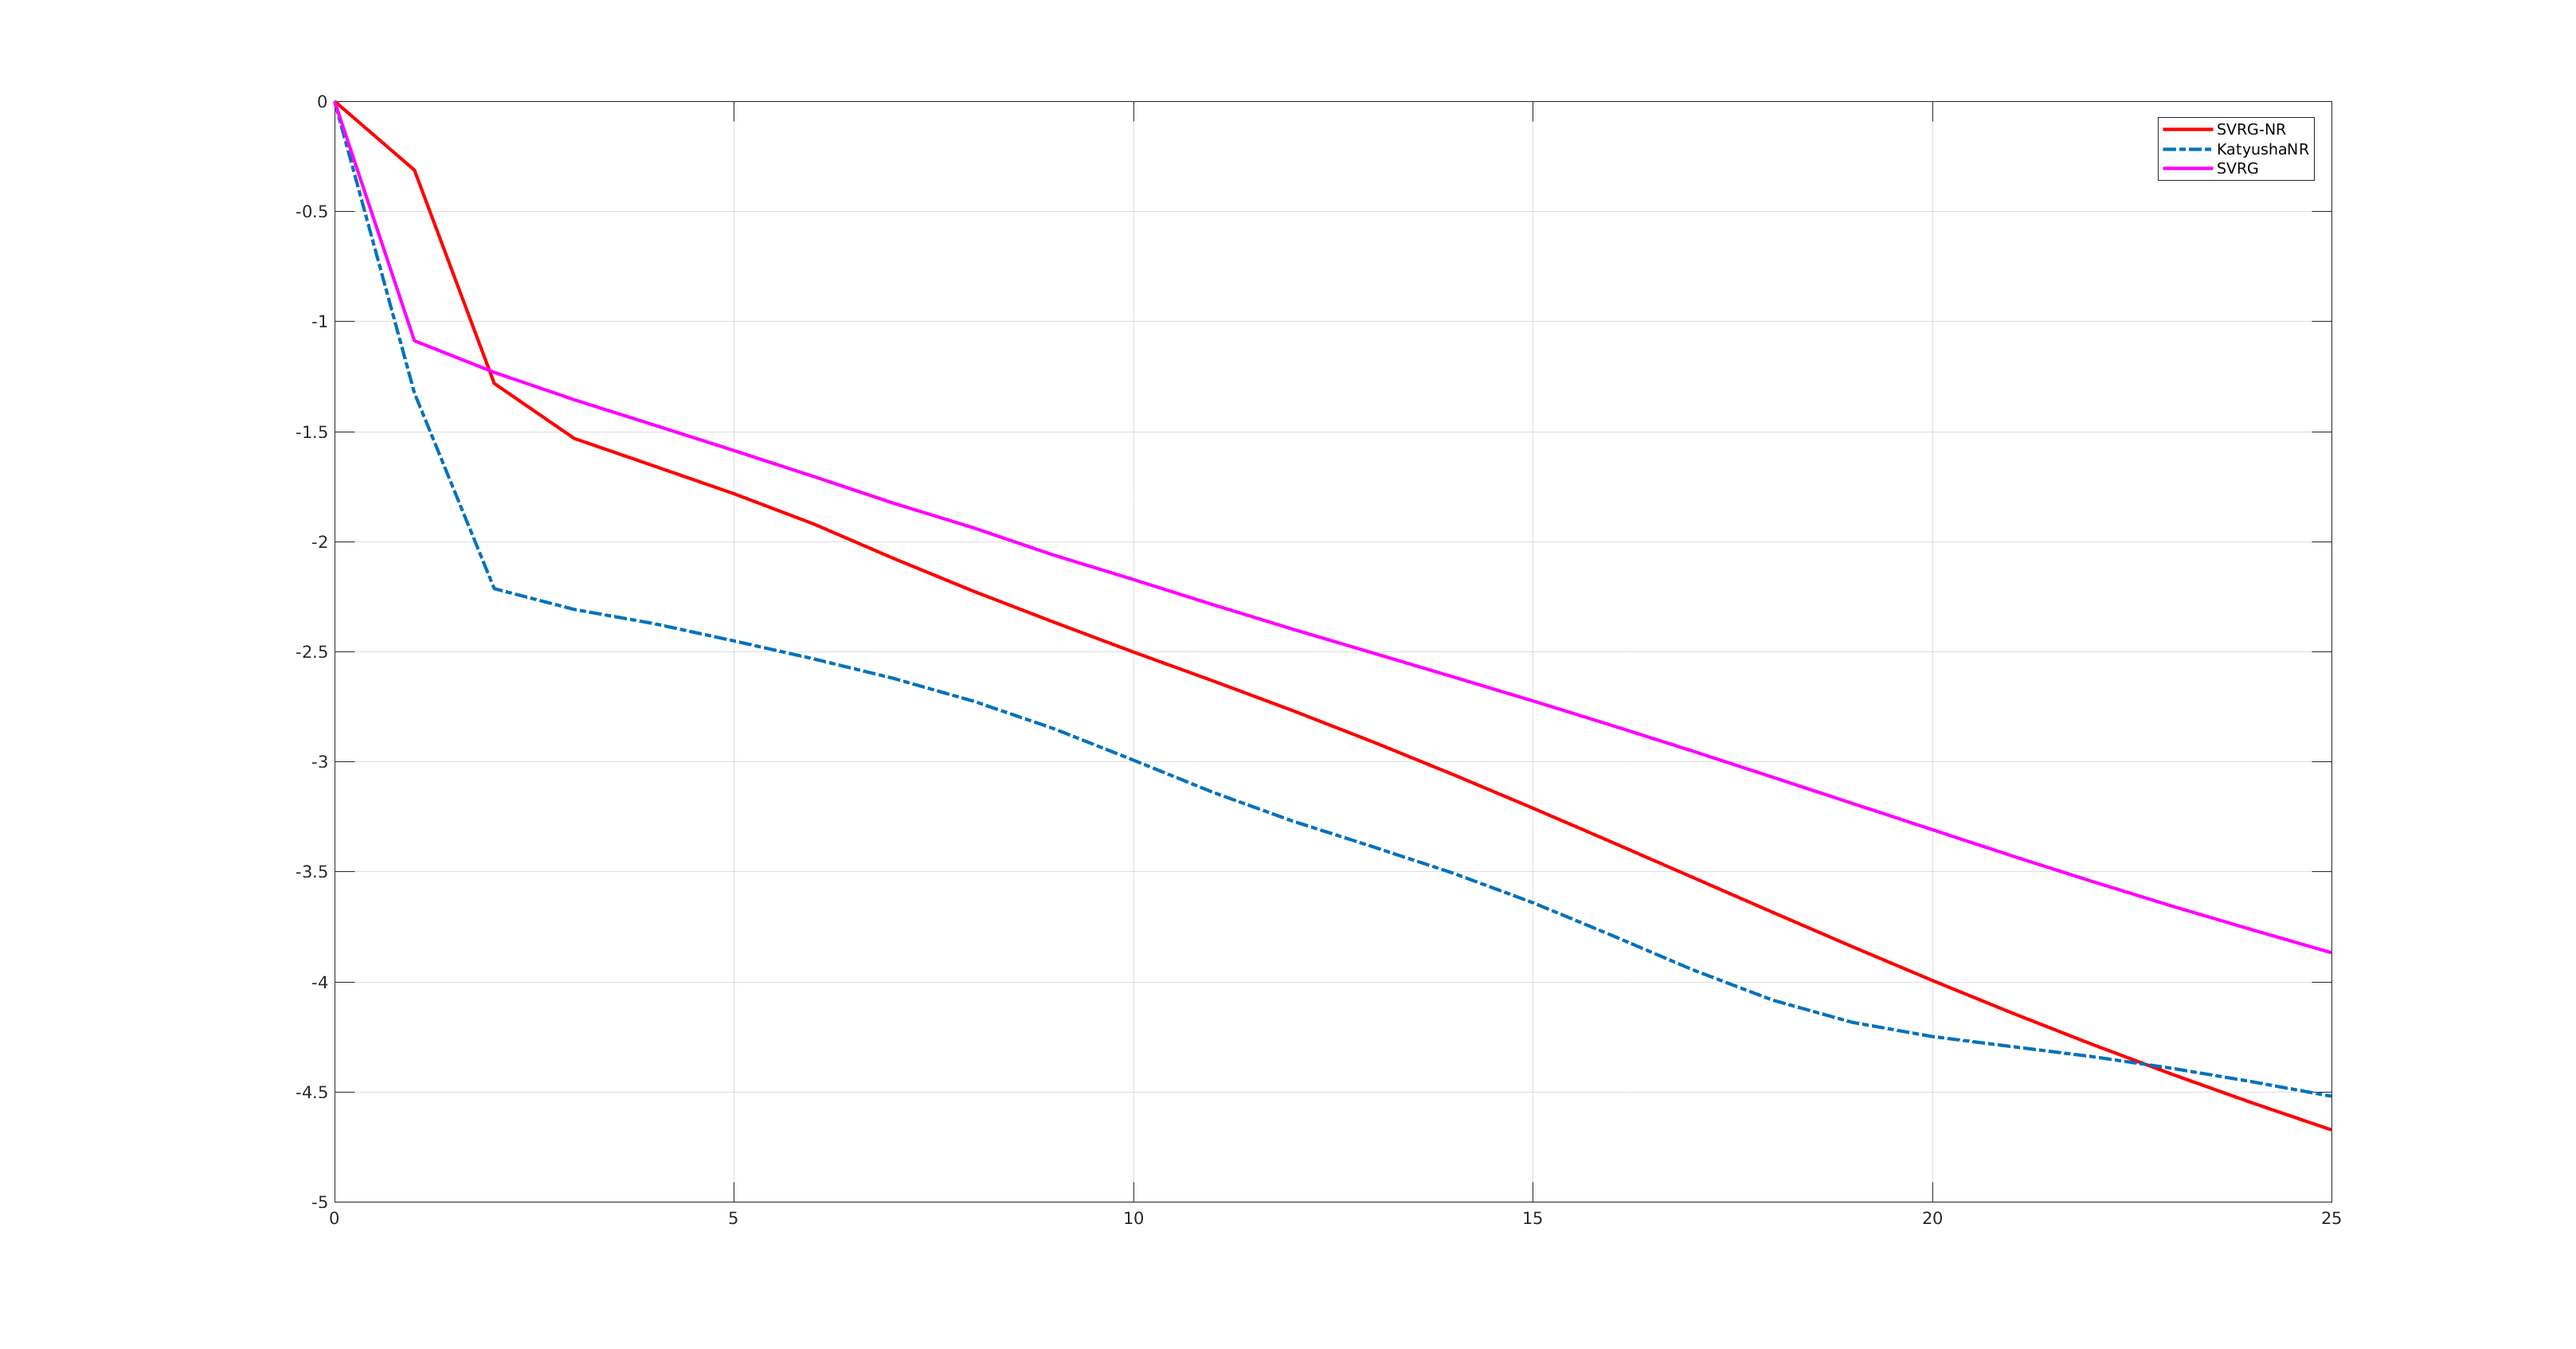
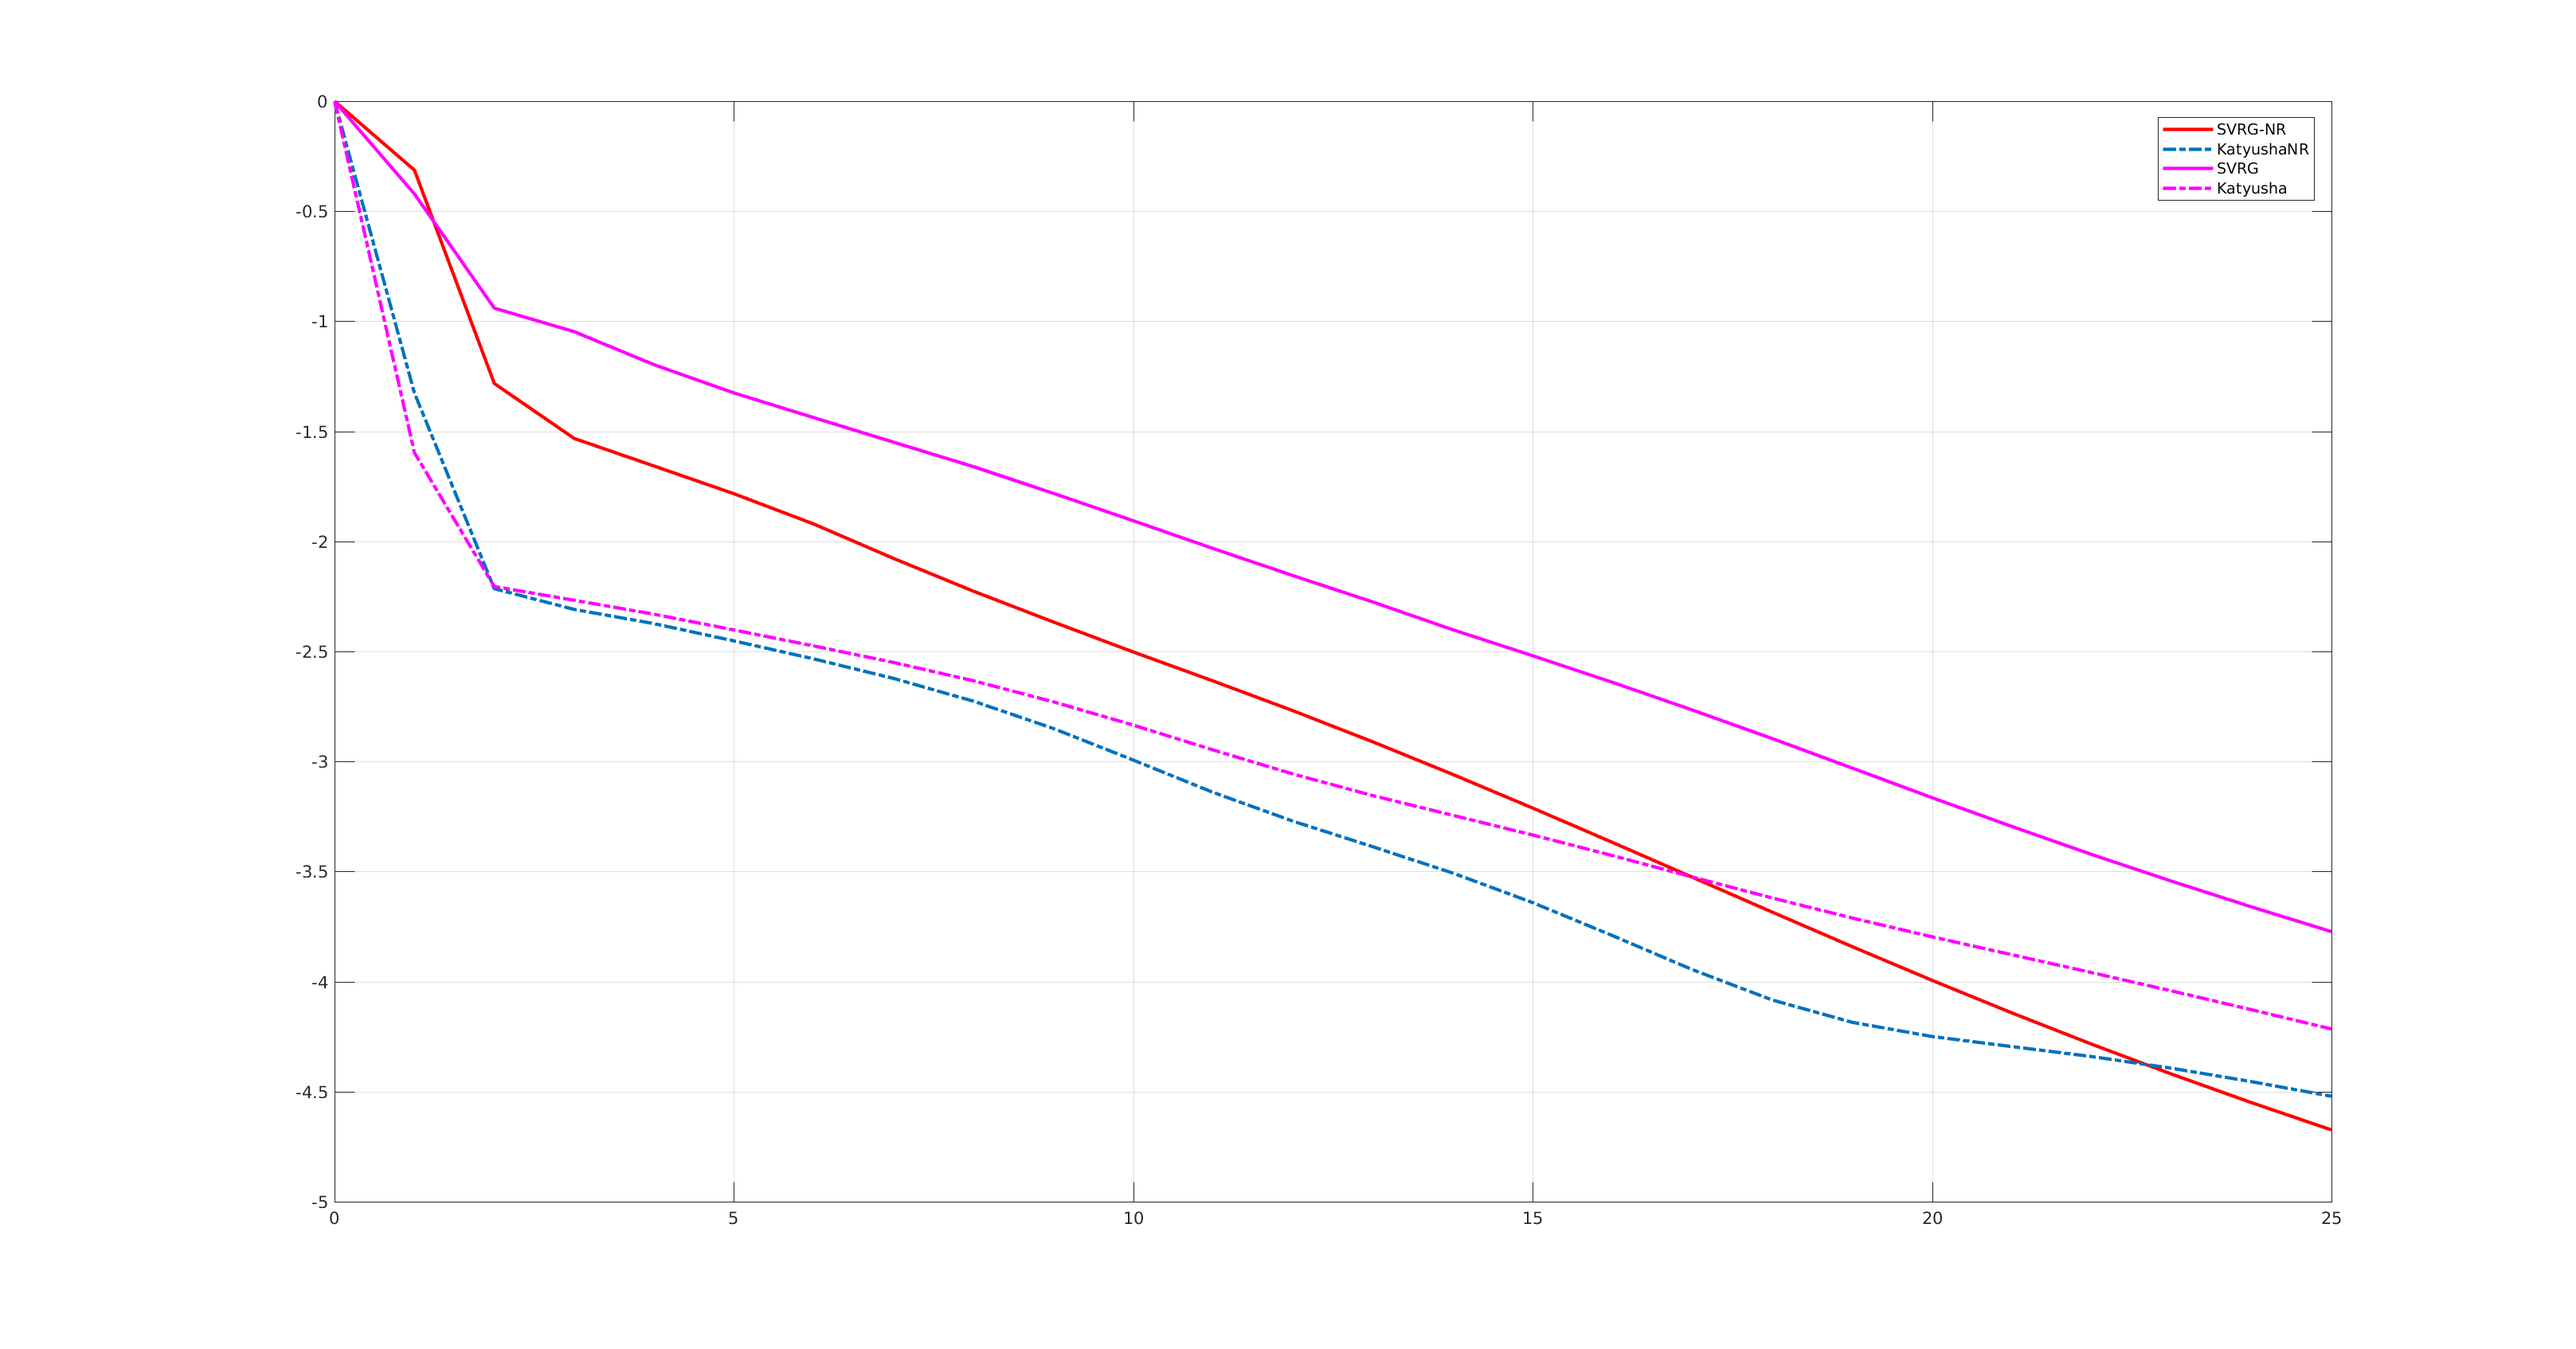
we need to use columns rather than rows

diff --git a/main.m b/main.m
@@ -31,7 +31,7 @@ logCost.optCost = logCost.Cost(wOpt, Xtrain, ytrain)
 SVRGNR(logCost, Xtrain, ytrain, Xtest, ytest, passes, factor);
 KatyushaNR(logCost, Xtrain, ytrain, Xtest, ytest, passes, factor);
 SVRG(logCost, Xtrain, ytrain, Xtest, ytest, passes, factor);
-% Katyusha(logCost, Xtrain, ytrain, Xtest, ytest, passes, factor);
+Katyusha(logCost, Xtrain, ytrain, Xtest, ytest, passes, factor);
 % SVRGNRM(logCost, Xtrain, ytrain, Xtest, ytest, passes, factor);
 
 % SVRGM(logCost, Xtrain, ytrain, Xtest, ytest, passes, factor);

diff --git a/LoadDataset.m b/LoadDataset.m
@@ -103,4 +103,5 @@ elseif strcmp(name, 'newtoy')
 
 elseif strcmp(name, 'toy')
     load('../data/toy_dataset.mat');
+
 end
